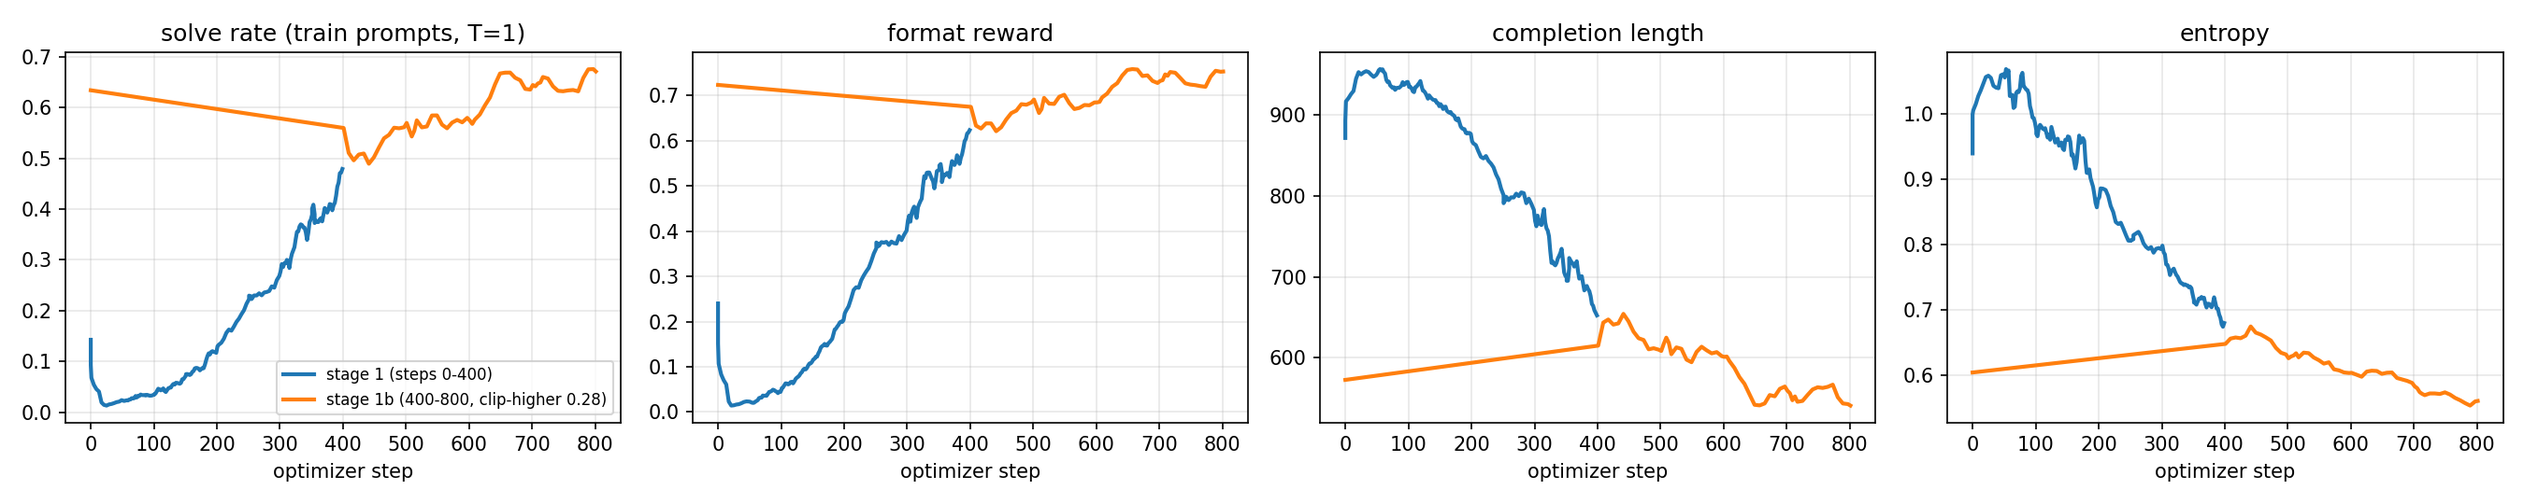
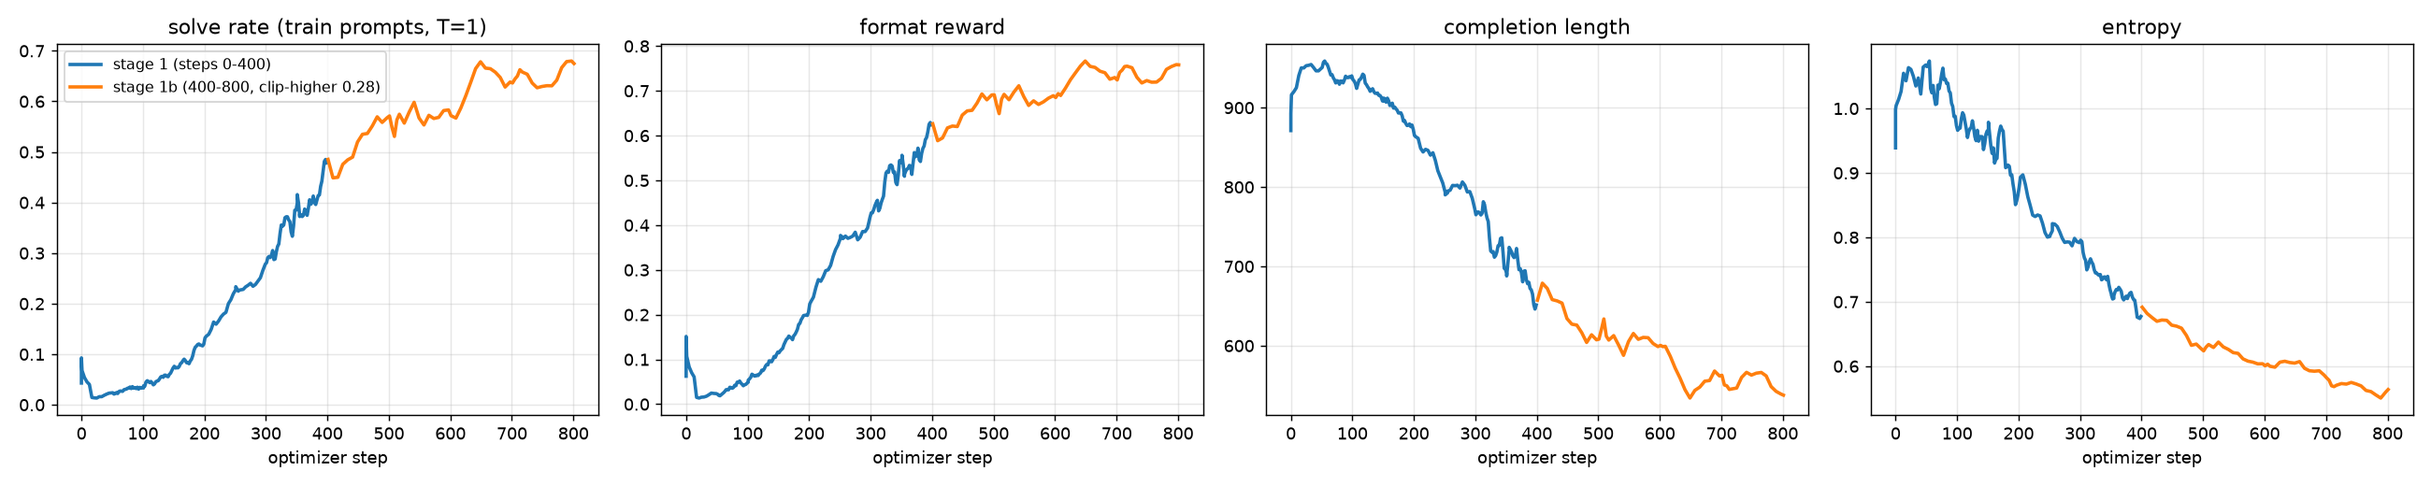
Release prep: results-first README, MIT license, plot_curves.py, clean curve, gitignore
- README rewritten for readers: held-out table, curves, before/after sample,
  recipe, what failed and cost, reproduce commands; removed personal notes
- curves_grpo800.png regenerated without the stage-1b resume artifact
  (countdown/plot_curves.py from the exported W&B history)
- LICENSE (MIT); .gitignore covers colab_out/, logs, _to_delete/
- GUIDE.md: drop a personal reference

diff --git a/countdown/plot_curves.py b/countdown/plot_curves.py
@@ -1,0 +1,61 @@
+"""Regenerate results/curves_grpo800.png from the exported W&B history.
+
+    python plot_curves.py            # reads results/wandb_history_stage1_and_1b.csv
+
+Stage 1b was a resumed run; W&B logged one row at global_step 0 before the trainer restored
+the step counter, which drew a spurious line from step 0. Rows of a resumed stage below its
+start step are dropped here.
+"""
+import csv
+from pathlib import Path
+
+import matplotlib
+matplotlib.use("Agg")
+import matplotlib.pyplot as plt
+
+HERE = Path(__file__).parent
+CSV = HERE / "results" / "wandb_history_stage1_and_1b.csv"
+OUT = HERE / "results" / "curves_grpo800.png"
+PANELS = [
+    ("train/rewards/answer_reward/mean", "solve rate (train prompts, T=1)"),
+    ("train/rewards/format_reward/mean", "format reward"),
+    ("train/completions/mean_length", "completion length"),
+    ("train/entropy", "entropy"),
+]
+WINDOW = 5  # rolling mean over logged rows (~4 optimizer steps apart)
+
+
+def smooth(xs, w=WINDOW):
+    out = []
+    for i in range(len(xs)):
+        lo = max(0, i - w + 1)
+        out.append(sum(xs[lo:i + 1]) / (i + 1 - lo))
+    return out
+
+
+rows = list(csv.DictReader(open(CSV)))
+runs = {}
+for r in rows:
+    if not r.get("train/global_step"):
+        continue
+    runs.setdefault(r["run"], []).append(r)
+
+fig, axes = plt.subplots(1, len(PANELS), figsize=(20, 4))
+for ax, (key, title) in zip(axes, PANELS):
+    for name, rs in runs.items():
+        pts = [(float(r["train/global_step"]), float(r[key])) for r in rs if r.get(key)]
+        pts.sort()
+        start = min(s for s, _ in pts)
+        # resumed stage: drop the pre-restore rows (a "400-800" stage keeps steps >= 400)
+        if "400-800" in name:
+            pts = [(s, v) for s, v in pts if s >= 400]
+        xs = [s for s, _ in pts]
+        ys = smooth([v for _, v in pts])
+        ax.plot(xs, ys, label=name, linewidth=2)
+    ax.set_title(title)
+    ax.set_xlabel("optimizer step")
+    ax.grid(alpha=0.3)
+axes[0].legend(fontsize=9)
+fig.tight_layout()
+fig.savefig(OUT, dpi=130)
+print("wrote", OUT)

diff --git a/README.md b/README.md
@@ -1,110 +1,244 @@
-# GRPO Puzzles — two "RL project to showcase" recipes, verified and ready to run
+# GRPO Puzzles — RL with verifiable rewards on a 0.8B base model
 
-Two small reinforcement-learning-from-verifiable-rewards (RLVR) projects, each a full pipeline
-(data → prompt → reward function → GRPO → before/after eval), written against **TRL 1.12 /
-transformers 5.16 (Sep 2026)** and smoke-tested end-to-end in a sandbox (CPU, tiny model).
-GPU runs are yours to do on Colab Pro.
+**Headline (Countdown):** `Qwen/Qwen3.5-0.8B-Base` — no SFT, no chat template, no reference model — trained with
+GRPO for 800 optimizer steps on 3-number Countdown puzzles goes from **0% to 40.2%** on 500 held-out puzzles
+(**63.9%** on 3-number puzzles, **15.5%** on 4-number puzzles it never trained on). Cost: about 9 A100-hours on
+Colab Pro, across many 60-minute VM reclaims.
+
+Everything needed to reproduce it is here: data + prompt, reward function with self-tests, TRL trainer, before/after
+eval, the W&B history, the eval JSONs with samples, and a log of what went wrong along the way.
 
 | | `countdown/` | `wordmaze/` |
 |---|---|---|
-| Origin | [@TheGlobalMinima's tweet](https://x.com/TheGlobalMinima/status/2096532361844609320) — the TinyZero recipe | [@immortaldip's reply](https://dipkumar.dev/posts/llm/wordmaze) — "try this instead" |
-| Task | Use numbers `[44, 19, 35]` once each with `+ - * /` to hit `98` | Word ladder `cold → warm` in exactly N one-letter moves whose F/B letter-direction pattern spells a password |
-| Data | `Jiayi-Pan/Countdown-Tasks-3to4` — 490k puzzles | `immortal3/wordmaze` — 2 × 2,000 puzzles (`m3-4` easy, `m4-6` hard) |
-| Model | `Qwen/Qwen3.5-0.8B-Base` (base, no SFT) | `Qwen/Qwen3.5-4B` instruct, thinking on, LoRA (0.8B is ~0% here) |
-| Difficulty for the model | Easy-ish → you *will* see reward go up | Hard → published 4B baseline is 18.5% (easy config), 2.5% (hard) |
-| Reward | correct equation 0/1 (+ format) | 10 boolean checks; shaped 0.1 / 0.3 / 1.0 designed against the known hack |
-| Prior art | TinyZero (Jan 2025), Mini-R1 (Phil Schmid) | Env + baselines only. **Nobody has published the GRPO training story yet** |
-| Time to first curve | ~1 evening on an A100 | ~1–2 weeks, needs the baseline-first discipline |
-| Portfolio angle | "I reproduced the aha moment on a 0.8B and measured what changed" | "I ran GRPO on an env whose author showed naive RL makes the model worse — here is a reward that doesn't" |
+| Task | Use `[44, 19, 35]` once each with `+ - * /` to make `98` | Word ladder in exactly N one-letter moves whose letter-direction pattern spells a password |
+| Data | [`Jiayi-Pan/Countdown-Tasks-3to4`](https://huggingface.co/datasets/Jiayi-Pan/Countdown-Tasks-3to4) (490k puzzles) | [`immortal3/wordmaze`](https://dipkumar.dev/posts/llm/wordmaze) |
+| Model | `Qwen3.5-0.8B-Base`, full fine-tune | `Qwen3.5-4B` instruct + LoRA (planned) |
+| Reward | format 0 / 0.5 / 1 + correct equation 0 / 1 | 10 boolean checks, shaped 0.1 / 0.3 / 1.0 against the known reward hack |
+| Status | **trained + evaluated** (below) | code, verifier and reward written and CPU smoke-tested; **no GPU run yet** |
 
-**Do Countdown first.** It is the guaranteed win and it debugs your whole stack (Colab, TRL, Qwen3.5
-kernels, W&B). Then Wordmaze, where the interesting science is.
+Stack: `trl==1.12.0`, `transformers==5.16.1`, `vllm==0.27.1` (Sep 2026). Prior art for Countdown:
+[TinyZero](https://github.com/Jiayi-Pan/TinyZero) (Qwen2.5-3B, veRL) and
+[Mini-R1](https://www.philschmid.de/mini-deepseek-r1) (3B-Instruct, TRL). This repo re-does the recipe on a
+4× smaller 2026 base model with a hybrid Gated-DeltaNet architecture, which brought its own problems (see gotchas).
+
+---
+
+## Countdown: results
+
+Held-out eval: the same 500 puzzles for every row, never seen in training, raw 3+4-number mix, greedy decoding,
+1024 new tokens. "Solve" means the `<answer>` equation uses each number exactly once and evaluates to the target.
+
+| model | solve (mix) | 3-number | 4-number (never trained) | clean format | mean tokens |
+|---|---|---|---|---|---|
+| base | 0.000 | 0.000 | 0.000 | 0.012 | 1015 |
+| GRPO step 400 | 0.318 | 0.533 | 0.094 | 0.366 | 765 |
+| **GRPO step 800** | **0.402** | **0.639** | **0.155** | 0.468 | 692 |
+
+pass@8 (T=1, 200 puzzles, 1024 tokens): base **0.070** → GRPO step 400 **0.550**. Raw numbers and 20 samples per
+row are in [`countdown/results/*.json`](countdown/results/).
+
+Two honesty notes. Each training prompt was seen about once (8 prompts × 800 steps = 6.4k of 240k puzzles), and
+held-out 3-number accuracy (63.9%) matches the training-prompt rate (~65%), so this is not memorization. The
+step-800 row was evaluated on an M1 Pro in fp32 with reference kernels because Colab compute units ran out; the
+other rows are bf16 through vLLM. pass@8 for step 800 was not run for the same reason.
+
+### Training curves
+
+![training curves](countdown/results/curves_grpo800.png)
+
+Stage 1 (blue): 400 steps from the base model. Stage 1b (orange): resumed to 800 with DAPO clip-higher
+(ε_high = 0.28). Training-prompt solve rate (T=1 samples): 3% → 41% at step 400 → plateau at ~65% from step 600.
+The order of events is the one TinyZero and Mini-R1 describe: the format reward is learned first, completion
+length falls (943 → 550 tokens, i.e. the model learns to stop), then the answer reward climbs. Fraction of
+"dead" groups (all 16 completions with the same reward, hence zero gradient) fell from 55% to 5%. Entropy 1.05 → 0.57.
+
+Public W&B project: https://wandb.ai/vineethveligeti-asu/grpo-countdown
+(runs `cd08b-3only-g16-vllm` = stage 1, `cd08b-3only-s1b` = stage 1b). Exported history:
+[`countdown/results/wandb_history_stage1_and_1b.csv`](countdown/results/wandb_history_stage1_and_1b.csv).
+
+### Same puzzle, before and after
+
+Puzzle: numbers `[67, 69, 69]`, target `71`. Both completions are greedy.
+
+**Base model** (hits the 1024-token limit, no answer):
+
+```
+We are given numbers: 67, 69, 69. We need to create an equation that equals 71. ...
+Let's think: 67 + 69 = 136, too big. 67 - 69 = -2, not good. 69 - 69 = 0. 67 * 69 = 4623, too big.
+67 / 69 = 0.970..., not 71. 69 / 69 = 1. 67 + 69 + 69 = 205. 67 - 69 - 69 = -99.
+67 * 69 - 69 = 4623 - 69 = 4554. 67 * 69 + 69 = 4623 + 69 = 4692. 67 * 69 / 69 = 67.
+67 / 69 + 69 = 67/69 + 69 = 67/69 + 69 = 67/69 + 69 = 67/69 + 69 = 67/69 + 69 = 67/69 + 69 = ...
+```
+
+**GRPO step 800** (solved in ~150 tokens):
+
+```
+Okay, let's see. The user wants an equation using the numbers 67, 69, and 69 that equals 71. Each number
+can be used once. Hmm, I need to think of combinations of these numbers.
+
+First, maybe subtracting 69 from 67? 67 minus 69 is -2, which isn't 71. Not helpful. What about adding 69
+and 69? That's 138, way too big. Maybe 67 plus 69? 67 + 69 is 136. Still not 71.
+
+Wait, maybe using subtraction first. 69 minus 67 is 2. Then 2 plus 69 is 71. Oh, that works! So
+69 - 67 + 69 equals 71. Let me check: 69 - 67 is 2, then 2 + 69 is 71. Yep, that's correct. Each number
+is used once. So the equation is 69 - 67 + 69.
+</think>
+
+<answer> 69 - 67 + 69 </answer>
+```
+
+Nothing in the prompt or reward asks for "Let me check". The reward only says whether the final equation is right.
+
+### The recipe
+
+- **Prompt:** the TinyZero base-model template verbatim, ending in `<think>` so the completion starts inside
+  the think block ([`countdown/data.py`](countdown/data.py)).
+- **Rewards** ([`countdown/rewards.py`](countdown/rewards.py), `python rewards.py` runs 11 self-tests):
+  `format_reward` = 1 for `</think>` then a single well-formed `<answer>`, 0.5 with trailing junk, 0 otherwise;
+  `answer_reward` = 1 iff the equation uses only the given numbers, each exactly once, only `+ - * / ( )`,
+  and evaluates to the target within 1e-6. `eval` runs on a character-whitelisted string only.
+- **GRPO** (TRL 1.12 `GRPOTrainer`, defaults unless stated): 16 completions per prompt, 8 prompts per optimizer
+  step (128 completions), lr 1e-6, β = 0 (no reference model), temperature 1.0, DAPO loss with group-normalised
+  advantages, max completion 1024 tokens, colocated vLLM generation.
+- **Curriculum:** 3-number puzzles only. The base model's pass@8 on the raw mix was 2.5% at 512 tokens, which
+  leaves GRPO almost nothing to push on (most groups have identical rewards). The 4-number column in the results
+  table is therefore pure transfer.
+- **Stage 1b:** resume from step 400 to 800 with `--epsilon_high 0.28` (DAPO clip-higher), no gradient
+  checkpointing, generation batch 1024, vLLM memory 0.45. About 13 s per optimizer step versus 31 s in stage 1.
+
+### What did not work, and what it cost
+
+- **Colab reclaims CLI-created A100 VMs after 60 minutes.** Stage 1 alone took 7 sessions. Fix in the repo:
+  every 50-step checkpoint is pushed to a Hub repo, `--resume auto` picks it up, and
+  [`supervise.sh`](countdown/supervise.sh) recreates the session and relaunches from the laptop. The W&B run
+  continues across VMs via `WANDB_RESUME=allow`.
+- **TRL + vLLM cannot load Qwen3.5 text-only from the Hub checkpoint** (TRL #5269). Workaround:
+  [`make_text_only_ckpt.py`](countdown/make_text_only_ckpt.py) rewrites the config so vLLM instantiates the
+  text-only class. Result: 15.4k tok/s decode versus ~1.6k for HF `generate`, and 7.7 s per 32 completions
+  instead of 52 s.
+- **Micro-batch 8 OOMs on 40 GB** even with Liger, because the loss-time logits tensor is
+  batch × 1024 × 248,320. Micro-batch 4 × 32 accumulation is the setting. Liger at batch 8 was also slower (18 s vs 12 s).
+- **Plateau at ~65%** on training prompts from step 600. At step 400, 40% of greedy held-out completions still
+  hit the 1024-token limit. Not yet tried: longer completions, 4-number curriculum after 3-number, a larger base.
+- Cost: roughly 4.5 A100-hours for stage 1, 4.5 for stage 1b, plus evals. All on Colab Pro compute units.
+
+The full lab notebook with timings, dead ends and dates is [`PROGRESS.md`](PROGRESS.md).
+
+---
+
+## Reproduce
+
+```bash
+pip install -U "trl>=1.11" "transformers>=5.2" datasets peft accelerate wandb matplotlib
+pip install flash-linear-attention      # Qwen3.5 Gated-DeltaNet kernels (import name: fla) — see gotcha 2
+pip install "vllm==0.27.1"; pip uninstall -y torchaudio torchcodec   # optional but 5x faster — see gotcha 3
+cd countdown
+python rewards.py                                                    # self-tests -> ALL PASS
+python make_text_only_ckpt.py Qwen/Qwen3.5-0.8B-Base /content/qwen3.5-0.8b-text   # only needed with --use_vllm
+```
+
+Baseline, training (stage 1 and 1b), and after-eval, as run:
+
+```bash
+# before: 0% greedy, 7% pass@8
+python eval_countdown.py --vllm --model /content/qwen3.5-0.8b-text --tag base-greedy-1024 --max_new_tokens 1024
+python eval_countdown.py --vllm --model /content/qwen3.5-0.8b-text --tag base-pass8-1024  --max_new_tokens 1024 --sample --k 8 --n 200
+
+# stage 1: 400 steps (~4.5 A100-hours)
+python train_countdown_grpo.py --model /content/qwen3.5-0.8b-text --curriculum 3only --max_steps 400 \
+  --max_completion_length 1024 --num_generations 16 --generation_batch_size 512 \
+  --per_device_train_batch_size 4 --grad_accum 32 --use_vllm --vllm_gpu_memory_utilization 0.35 \
+  --save_steps 50 --report_to wandb --run_name cd-0.8b-3only
+
+# stage 1b: resume to 800 with clip-higher
+python train_countdown_grpo.py ... --max_steps 800 --resume auto --epsilon_high 0.28 --no_grad_ckpt \
+  --generation_batch_size 1024 --vllm_gpu_memory_utilization 0.45
+
+# after
+python eval_countdown.py --vllm --model runs/countdown-qwen3.5-0.8b-base/final --tag grpo800-greedy-1024 --max_new_tokens 1024
+python plot_curves.py    # results/curves_grpo800.png from the exported W&B history
+```
+
+`--hub_repo <you>/<name>` pushes every checkpoint to the Hub so a killed VM can resume; `supervise.sh` automates
+the Colab CLI loop. `eval_countdown.py` falls back to HF `generate` (CUDA, MPS or CPU) without `--vllm`.
+There is also a self-contained Colab notebook, [`countdown/countdown_grpo_colab.ipynb`](countdown/countdown_grpo_colab.ipynb),
+generated by `build_colab_notebook.py`. Step-by-step guide with the reasoning behind every default:
+[`countdown/GUIDE.md`](countdown/GUIDE.md).
+
+GPU: an A100 40 GB is comfortable. L4 (24 GB) works with `--per_device_train_batch_size 4 --grad_accum 8` at 512
+tokens, or `--lora`. T4 has no bf16.
 
 ## Files
 
 ```
-grpo_puzzles/
-├── README.md                 <- you are here (shared setup + gotchas)
-├── GUIDE.html                <- visual companion: GRPO loop, reward trees, expected curves, decision flow
+├── README.md
+├── PROGRESS.md               <- dated lab notebook: every run, timing, dead end
+├── GUIDE.html                <- visual companion: GRPO loop, reward trees, expected curves
+├── LICENSE                   <- MIT
 ├── requirements.txt
 ├── countdown/
-│   ├── GUIDE.md              <- step-by-step
-│   ├── data.py               <- dataset + TinyZero base prompt
+│   ├── GUIDE.md              <- step-by-step, with sources
+│   ├── data.py               <- dataset + TinyZero base prompt + 500-puzzle held-out split
 │   ├── rewards.py            <- format_reward + answer_reward   (python rewards.py -> self-test)
 │   ├── train_countdown_grpo.py
-│   ├── eval_countdown.py     <- solve rate on 500 held-out puzzles, before/after
-│   └── countdown_grpo_colab.ipynb
+│   ├── eval_countdown.py     <- solve rate / pass@k on the held-out split, vLLM or HF generate
+│   ├── make_text_only_ckpt.py  <- vLLM-loadable Qwen3.5 text-only checkpoint (TRL #5269 workaround)
+│   ├── setup_vm.sh, colab_cli.sh, supervise.sh, eval_all.sh, eval_800.sh, timing_matrix.sh
+│   ├── build_colab_notebook.py, countdown_grpo_colab.ipynb
+│   ├── plot_curves.py
+│   └── results/              <- eval JSONs (metrics + samples), W&B history CSVs, curves
 └── wordmaze/
     ├── GUIDE.md
     ├── data.py               <- dataset + chat/base prompts + spelled-out-letters ablation
     ├── verifier.py           <- the 10 checks, 2 dictionaries   (python verifier.py -> self-test)
     ├── rewards.py            <- format 0.1 + valid-ladder 0.3 + solve 1.0
     ├── train_wordmaze_grpo.py
-    ├── eval_wordmaze.py      <- per-check table like the blog post's, per (length, moves) bucket
+    ├── eval_wordmaze.py      <- per-check table, per (length, moves) bucket
     └── wordmaze_grpo_colab.ipynb
 ```
 
-## Shared setup (Colab Pro)
-
-```bash
-pip install -U "trl>=1.11" "transformers>=5.2" datasets peft accelerate wandb
-pip install flash-linear-attention        # Qwen3.5 Gated-DeltaNet fast kernels (Triton) — see gotcha 2
-# pip install causal-conv1d               # optional & minor; often fails to build on Colab — skip, or try --no-build-isolation
-pip install wordfreq                      # wordmaze only
-# optional fast generation (see gotcha 3):
-pip install "vllm==0.27.1"
-```
-
-GPU: **A100 40 GB** is the comfortable choice for both projects. L4 (24 GB) works for Countdown with
-`--per_device_train_batch_size 4 --grad_accum 8` or `--lora`. T4 has no bf16 — avoid.
-
-## Five Qwen3.5 gotchas the tweet doesn't mention (all verified Sep 7, 2026)
+## Five Qwen3.5 gotchas (all hit in practice, Sep 2026)
 
 1. **It's a vision-language checkpoint.** `Qwen/Qwen3.5-0.8B-Base` has `architectures: ["Qwen3_5ForConditionalGeneration"]`
    and a vision tower. Load it with `AutoModelForCausalLM` → transformers resolves `qwen3_5` to
    `Qwen3_5ForCausalLM` (text-only, vision weights skipped). If you instead pass the model *name* string to
    `GRPOTrainer`, TRL follows `config.architectures[0]`, loads the full VLM + `AutoProcessor`, treats it as a
-   VLM, and (per TRL docs) defaults the dtype to **float32**. Our scripts instantiate the model themselves in bf16.
+   VLM, and defaults the dtype to **float32**. The scripts here instantiate the model themselves in bf16.
 2. **Hybrid linear attention needs kernels.** 18 of 24 layers are Gated DeltaNet. Without the `fla` package
-   transformers falls back to a slow, memory-hungry PyTorch path — silently in 5.16; **5.17 does log**
-   `chunk_gated_delta_rule is falling back to its reference PyTorch implementation` (seen 2026-09-09). Check explicitly anyway: `python -c "from fla.ops.gated_delta_rule import chunk_gated_delta_rule; print('fla OK')"`.
-   `pip install flash-linear-attention` covers the heavy op. `causal-conv1d` is a *second, minor* kernel (a depthwise
-   conv of width 4); each kernel falls back independently, so if its from-source build fails you lose very little —
-   skip it, or get a prebuilt one via `pip install kernels` + `from_pretrained(..., use_kernels=True)` (Hub repo
-   `kernels-community/mamba-ssm`).
-3. **TRL + vLLM + Qwen3.5 text-only is still broken in vllm 0.27.1 — but there is a 2-minute workaround.**
-   ([TRL #5269](https://github.com/huggingface/trl/issues/5269)) vLLM instantiates the VLM class from the Hub
+   transformers falls back to a slow, memory-hungry PyTorch path — silently in 5.16; 5.17 logs
+   `chunk_gated_delta_rule is falling back to its reference PyTorch implementation`. Check explicitly:
+   `python -c "from fla.ops.gated_delta_rule import chunk_gated_delta_rule; print('fla OK')"`.
+   `causal-conv1d` is a second, minor kernel (a depthwise conv of width 4) that often fails to build on Colab;
+   each kernel falls back independently, so skipping it costs very little.
+3. **TRL + vLLM + Qwen3.5 text-only is broken in vllm 0.27.1, with a 2-minute workaround**
+   ([TRL #5269](https://github.com/huggingface/trl/issues/5269)). vLLM instantiates the VLM class from the Hub
    checkpoint, TRL's colocated weight sync sends text-only names → *"no module or parameter named 'model'"*.
-   vLLM 0.27.1 *does* have a text-only `Qwen3_5ForCausalLM`; it just needs a checkpoint that says so:
-   `python countdown/make_text_only_ckpt.py Qwen/Qwen3.5-0.8B-Base /content/qwen3.5-0.8b-text`, then pass that dir as
-   `--model` together with `--use_vllm`. Verified 2026-09-08 on an A100: raw vLLM decode **15.4k tok/s** vs **~1.6k tok/s**
-   for HF `generate` (512 sequences in flight, 1024 tokens). Install notes: `vllm==0.27.1` pins `torch==2.13.0` (Colab ships
-   2.11) — the swap works with `flash-linear-attention` and transformers 5.16.1, but you must
-   `pip uninstall -y torchaudio torchcodec` afterwards (they stay on the CUDA-12.8 build and break `import torch`-dependent
-   imports). Use `--vllm_gpu_memory_utilization 0.45`; 0.3 leaves no room for vLLM's KV/state cache next to the trainer.
+   `make_text_only_ckpt.py` writes a checkpoint whose config names `Qwen3_5ForCausalLM`; pass that directory as
+   `--model` with `--use_vllm`. `vllm==0.27.1` pins `torch==2.13.0` (Colab ships 2.11); the swap works but you must
+   `pip uninstall -y torchaudio torchcodec` afterwards. Use `--vllm_gpu_memory_utilization` 0.35–0.45 with sleep mode on.
 4. **248k-token vocabulary.** The logits tensor (batch × completion_len × 248,320) dominates memory at the
-   loss step, not the 0.8B weights. That's why `per_device_train_batch_size` matters more than you'd expect;
-   halve it before reaching for LoRA.
-5. **`<think>` / `</think>` are single tokens but not "special"** → they survive TRL's `skip_special_tokens=True`
-   decode, so format rewards can see them. The base model's EOS/pad is `<|endoftext|>` (id 248044); the instruct
+   loss step, not the 0.8B weights. Halve `per_device_train_batch_size` before reaching for LoRA.
+5. **`<think>` / `</think>` are single tokens but not "special"**, so they survive TRL's `skip_special_tokens=True`
+   decode and format rewards can see them. The base model's EOS/pad is `<|endoftext|>` (id 248044); the instruct
    model's EOS is `<|im_end|>`.
 
-## What "GRPO" is doing (30-second version — full visual in GUIDE.html, math in ../rl_algorithms_tour.html)
+## What GRPO is doing here (30-second version; visual in GUIDE.html)
 
-For each prompt, sample a **group** of G=8 completions. Score each with the rule-based reward. Turn scores into
-advantages by normalising *within the group*: $A_i = (r_i - \bar r)/\sigma_r$ (TRL `scale_rewards="group"`). Push
-up the log-probability of tokens in above-average completions, push down the rest, with a PPO-style clip
-($\epsilon=0.2$) and — in TRL 1.12's default `loss_type="dapo"` — token-level averaging across the group.
-No critic, no reward model, and with `beta=0.0` no reference model either. **Consequence to remember:** a group
-whose 8 completions all score the same contributes *zero* gradient. TRL logs this as `frac_reward_zero_std`
-— when it sits at 1.0 you have no signal, and the fix is a curriculum or a stronger base model, not more steps.
+For each prompt, sample a **group** of G completions. Score each with the rule-based reward. Turn scores into
+advantages by normalising *within the group*: $A_i = (r_i - \bar r)/\sigma_r$. Push up the log-probability of
+tokens in above-average completions, push down the rest, with a PPO-style clip (ε = 0.2, or 0.28 on the upper
+side with clip-higher) and, in TRL 1.12's default `loss_type="dapo"`, token-level averaging across the group.
+No critic, no reward model, and with β = 0 no reference model either. A group whose completions all score the
+same contributes *zero* gradient; TRL logs this as `frac_reward_zero_std`. When it sits near 1.0 there is no
+signal, and the fix is a curriculum or a stronger base model, not more steps.
 
-## Proof-of-work checklist (what to publish)
+## Wordmaze: status
 
-- A GitHub repo per project (or this folder as one repo) with README: before → after table, reward/solve-rate curve,
-  5 qualitative samples, exact command lines, cost.
-- W&B project public link (`--report_to wandb`).
-- Trained adapter/model on the Hub with a model card that states the eval protocol.
-- One X thread each (@findingsignal12): the curve, one "aha" sample, one honest failure. Tag the original posters —
-  both tweets have engaged audiences and the Wordmaze author explicitly asked to hear from people who train on it.
-- Ablations are where the credibility comes from — each GUIDE lists 4–6 cheap ones.
+The environment author reports that naive GRPO on Wordmaze made a 4B model *worse* by gaming the checks. The
+code here is the setup for the follow-up: a 10-check verifier with two dictionaries (13 self-tests), a shaped
+reward designed against that hack, trainer, per-bucket eval, and a notebook. All CPU smoke-tested; the baseline
+table and training runs have not been done. See [`wordmaze/GUIDE.md`](wordmaze/GUIDE.md).
+
+## License
+
+MIT. The prompt template and reward logic follow TinyZero (Apache-2.0).

diff --git a/countdown/GUIDE.md b/countdown/GUIDE.md
@@ -199,7 +199,7 @@ before/after table and 5 samples. Then the parts that make people stop scrolling
 - **Base vs instruct** at 0.8B: `Qwen/Qwen3.5-0.8B` with the `qwen-instruct` template from TinyZero. Which learns faster? Does the base one reason "weirder"?
 - **Format reward on/off**: drop `format_reward` — does the answer reward still climb? (R1-Zero used both.)
 - **Group size** 8 vs 16 at fixed compute; **KL** 0 vs 0.01; **temperature** 1.0 vs 0.7.
-- **Interp add-on that fits your `llm_lesion_map` work:** save checkpoints every 50 steps and plot the per-layer
+- **Interp add-on:** save checkpoints every 50 steps and plot the per-layer
   weight-delta norm $\|W_t - W_0\|_F$ — do the 6 attention layers or the 18 DeltaNet layers move more? Does the
   change concentrate late or early in the stack? Nobody has posted this for a hybrid-architecture model.
 - **Token-level "aha" tracking:** frequency of `verify`, `wait`, `check`, `instead`, `=` in completions per step.
